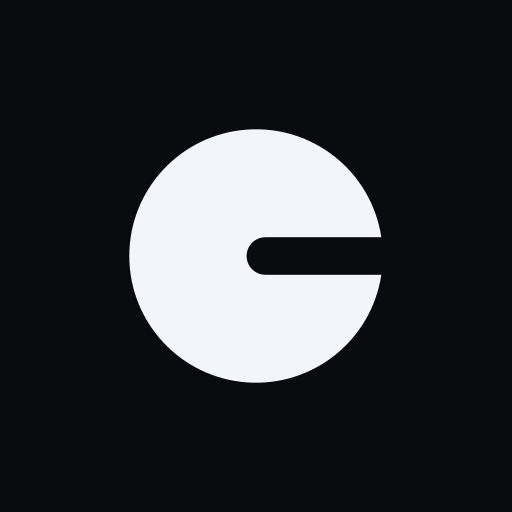
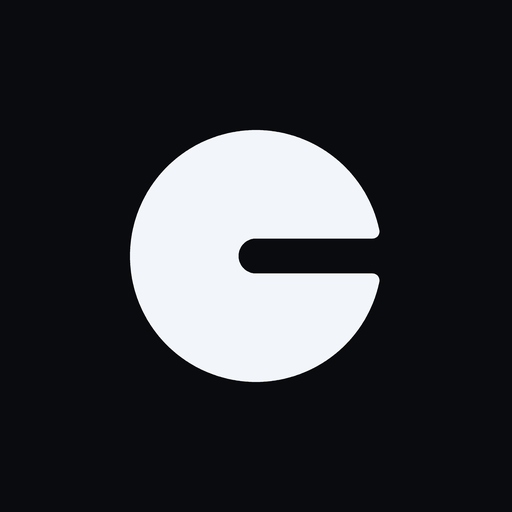
New brand mark everywhere: slot ends at the centre, rounded outer corners
Geometry measured from the user's 4000px master (0.09% pixel mismatch):
same r=54 circle in the 120-unit box, slot half-height 7.5 with its
round end centred on the circle, 2.93-unit fillets where the slot meets
the edge. Swapped into the SVG mark, loader, nav brand icon, Android
launcher/splash/notification drawables and Compose NavIcons; PWA and
badge PNGs regenerated at their previous layouts.

diff --git a/android-kotlin/app/src/main/java/com/playthruu/android/ui/NavIcons.kt b/android-kotlin/app/src/main/java/com/playthruu/android/ui/NavIcons.kt
@@ -76,10 +76,13 @@ object NavIcons {
     val Brand: ImageVector by lazy {
         ImageVector.Builder("nav_brand", 24.dp, 24.dp, 120f, 120f).apply {
             path(fill = androidx.compose.ui.graphics.SolidColor(Color.Black), pathFillType = PathFillType.NonZero) {
-                moveTo(113.4045f, 52f)
-                arcTo(54f, 54f, 0f, true, true, 113.4045f, 68f)
-                lineTo(64f, 68f)
-                arcToRelative(8f, 8f, 0f, false, true, 0f, -16f)
+                moveTo(110f, 52.5f)
+                lineTo(60f, 52.5f)
+                arcTo(7.5f, 7.5f, 0f, false, false, 60f, 67.5f)
+                lineTo(110f, 67.5f)
+                arcTo(2.9272f, 2.9272f, 0f, false, true, 112.8625f, 71.0248f)
+                arcTo(54f, 54f, 0f, true, true, 112.8625f, 48.9752f)
+                arcTo(2.9272f, 2.9272f, 0f, false, true, 110f, 52.5f)
                 close()
             }
         }.build()

diff --git a/js/components.js b/js/components.js
@@ -860,7 +860,7 @@ export function iconSparkle() { return `<svg viewBox="0 0 24 24" fill="none" str
 // mark is a solid shape.
 export function iconBrandMark() {
   return `<svg viewBox="0 0 120 120" fill="none">
-    <path fill="currentColor" d="M 113.4045,52 A 54,54 0 1,0 113.4045,68 L 64,68 A 8,8 0 0,1 64,52 Z"/>
+    <path fill="currentColor" d="M 110,52.5 L 60,52.5 A 7.5,7.5 0 0,0 60,67.5 L 110,67.5 A 2.9272,2.9272 0 0,1 112.8625,71.0248 A 54,54 0 1,1 112.8625,48.9752 A 2.9272,2.9272 0 0,1 110,52.5 Z"/>
   </svg>`;
 }
 export function iconBack() { return `<svg viewBox="0 0 24 24" fill="none"><path d="M15 19l-7-7 7-7" stroke="currentColor" stroke-width="2.2" stroke-linecap="round" stroke-linejoin="round"/></svg>`; }

diff --git a/service-worker.js b/service-worker.js
@@ -5,7 +5,7 @@
 // also has the side effect of dropping every old "questlog-*" cache on
 // people's phones, which is exactly right: those held Questlog-branded
 // assets that no longer exist.
-const CACHE_VERSION = 'playthruu-v67';
+const CACHE_VERSION = 'playthruu-v68';
 const PRECACHE = [
   './',
   './index.html',
